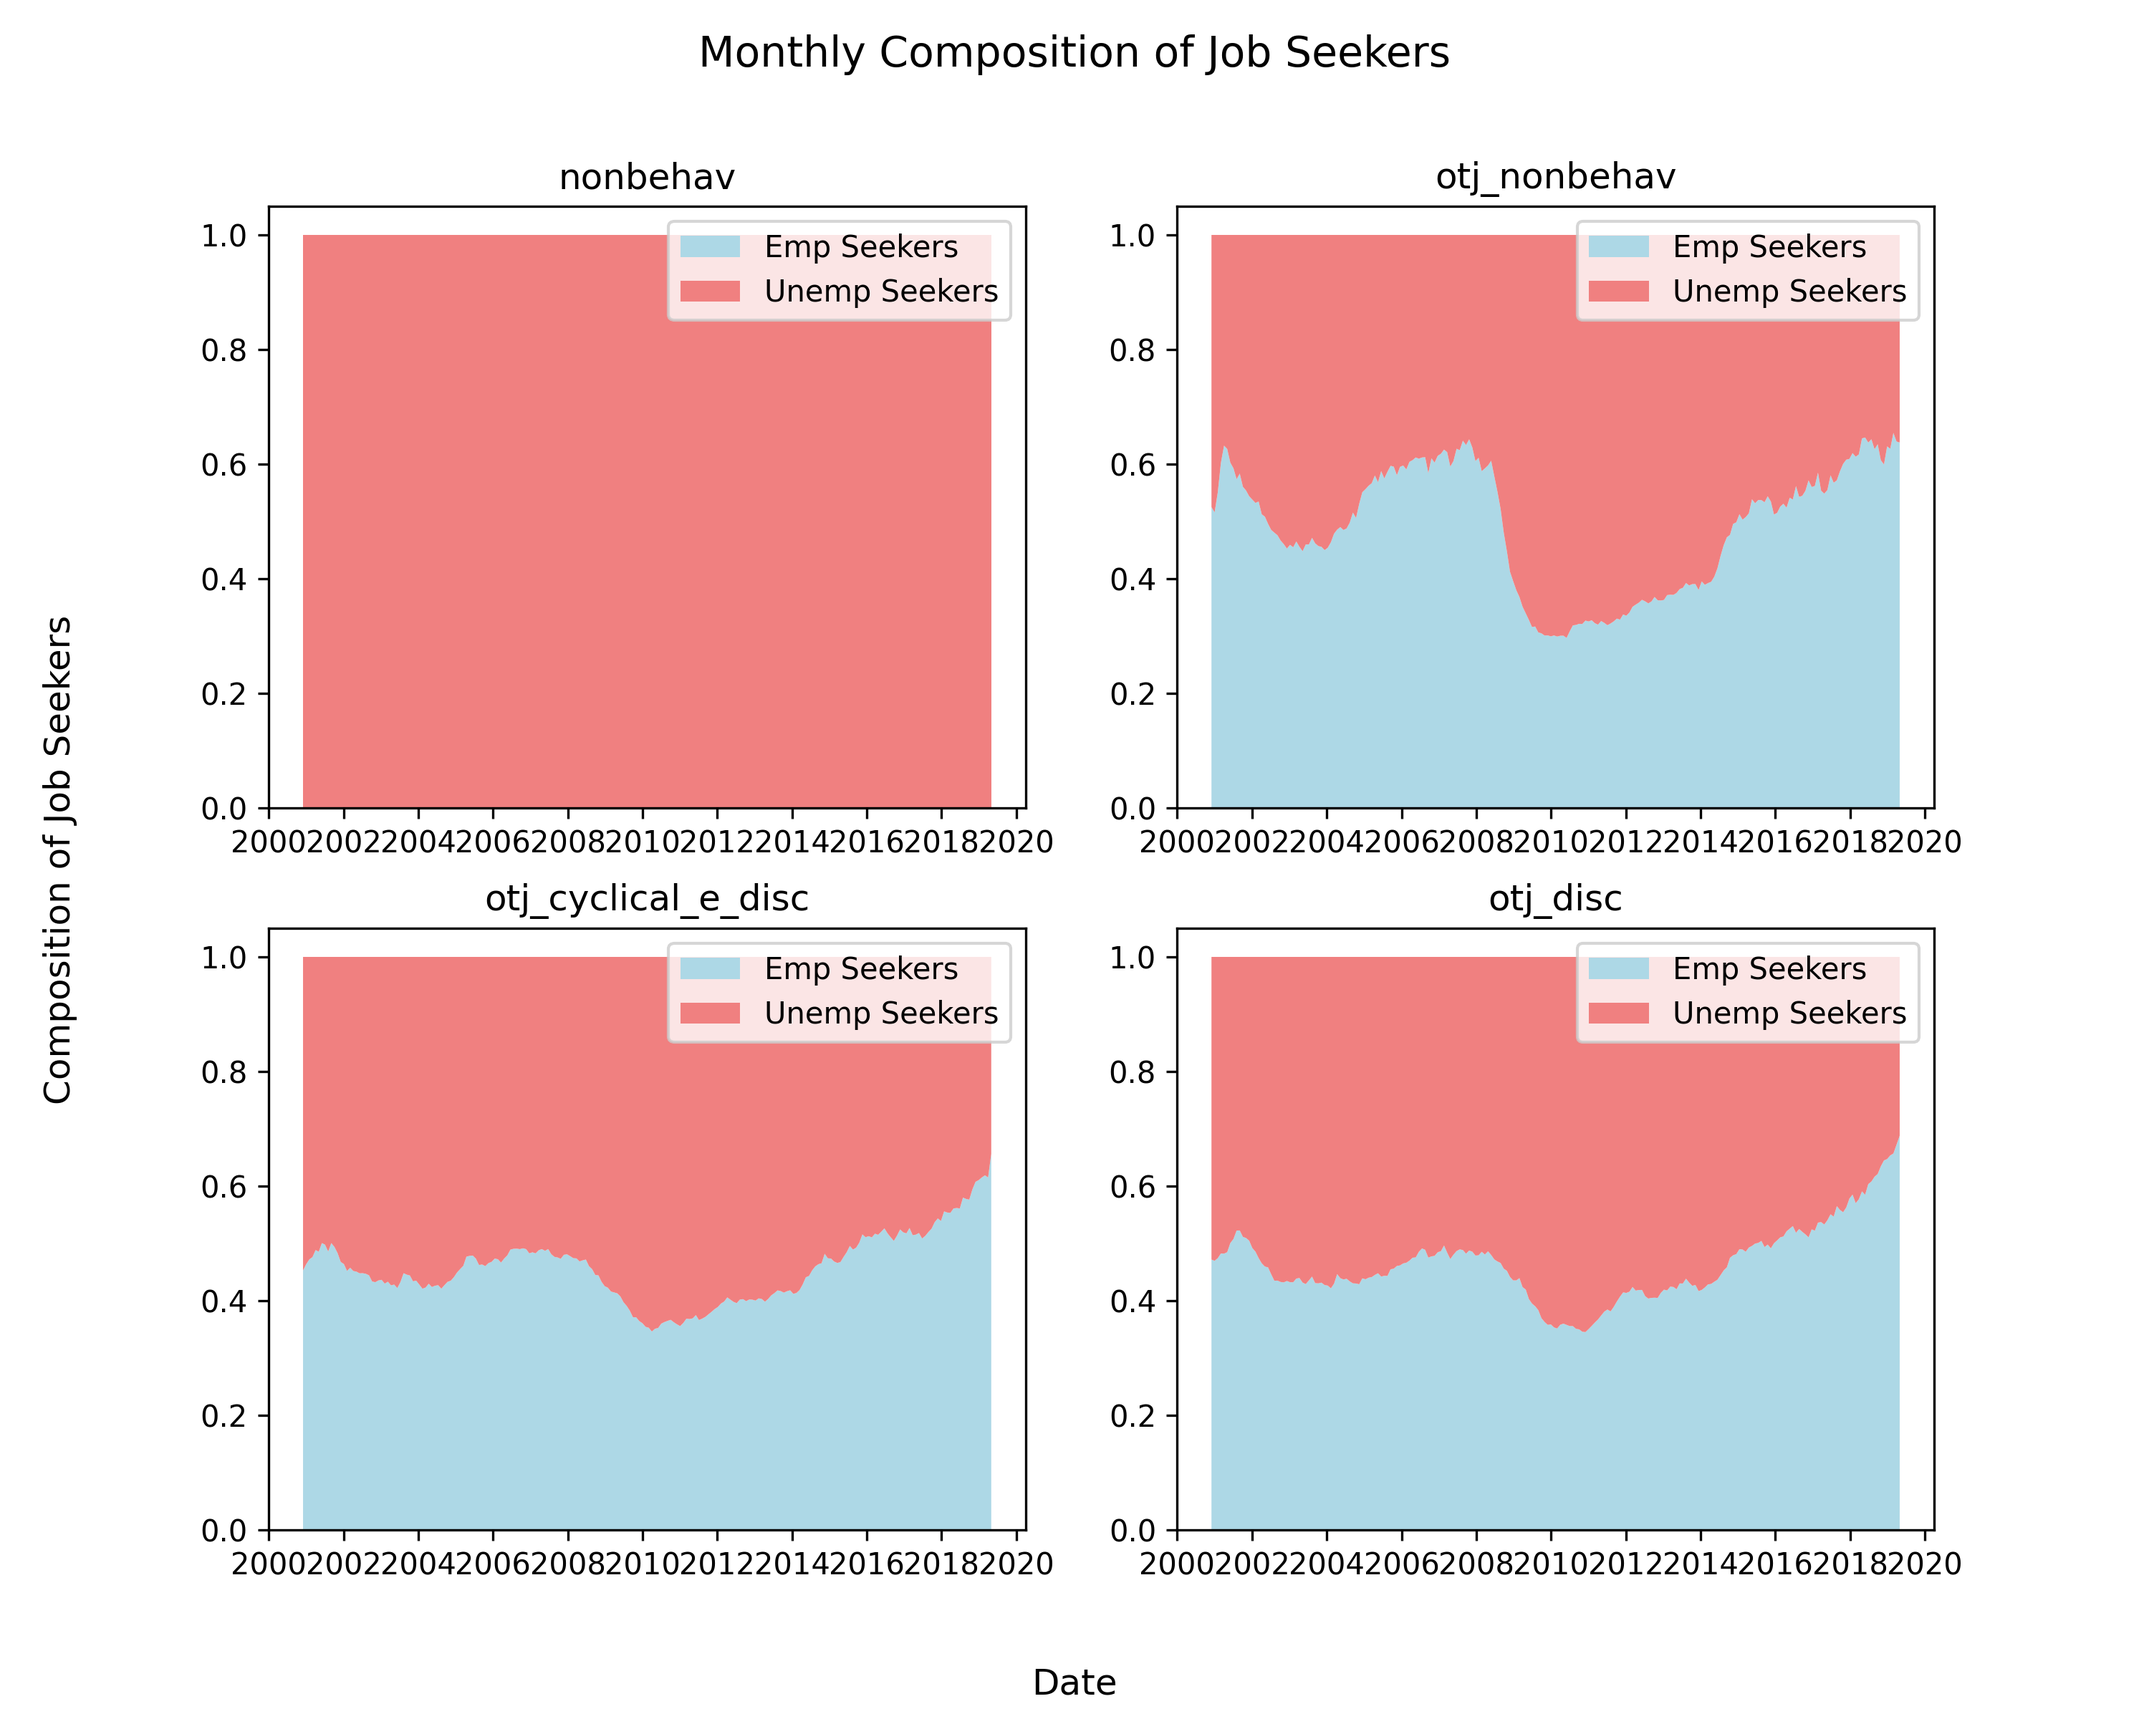
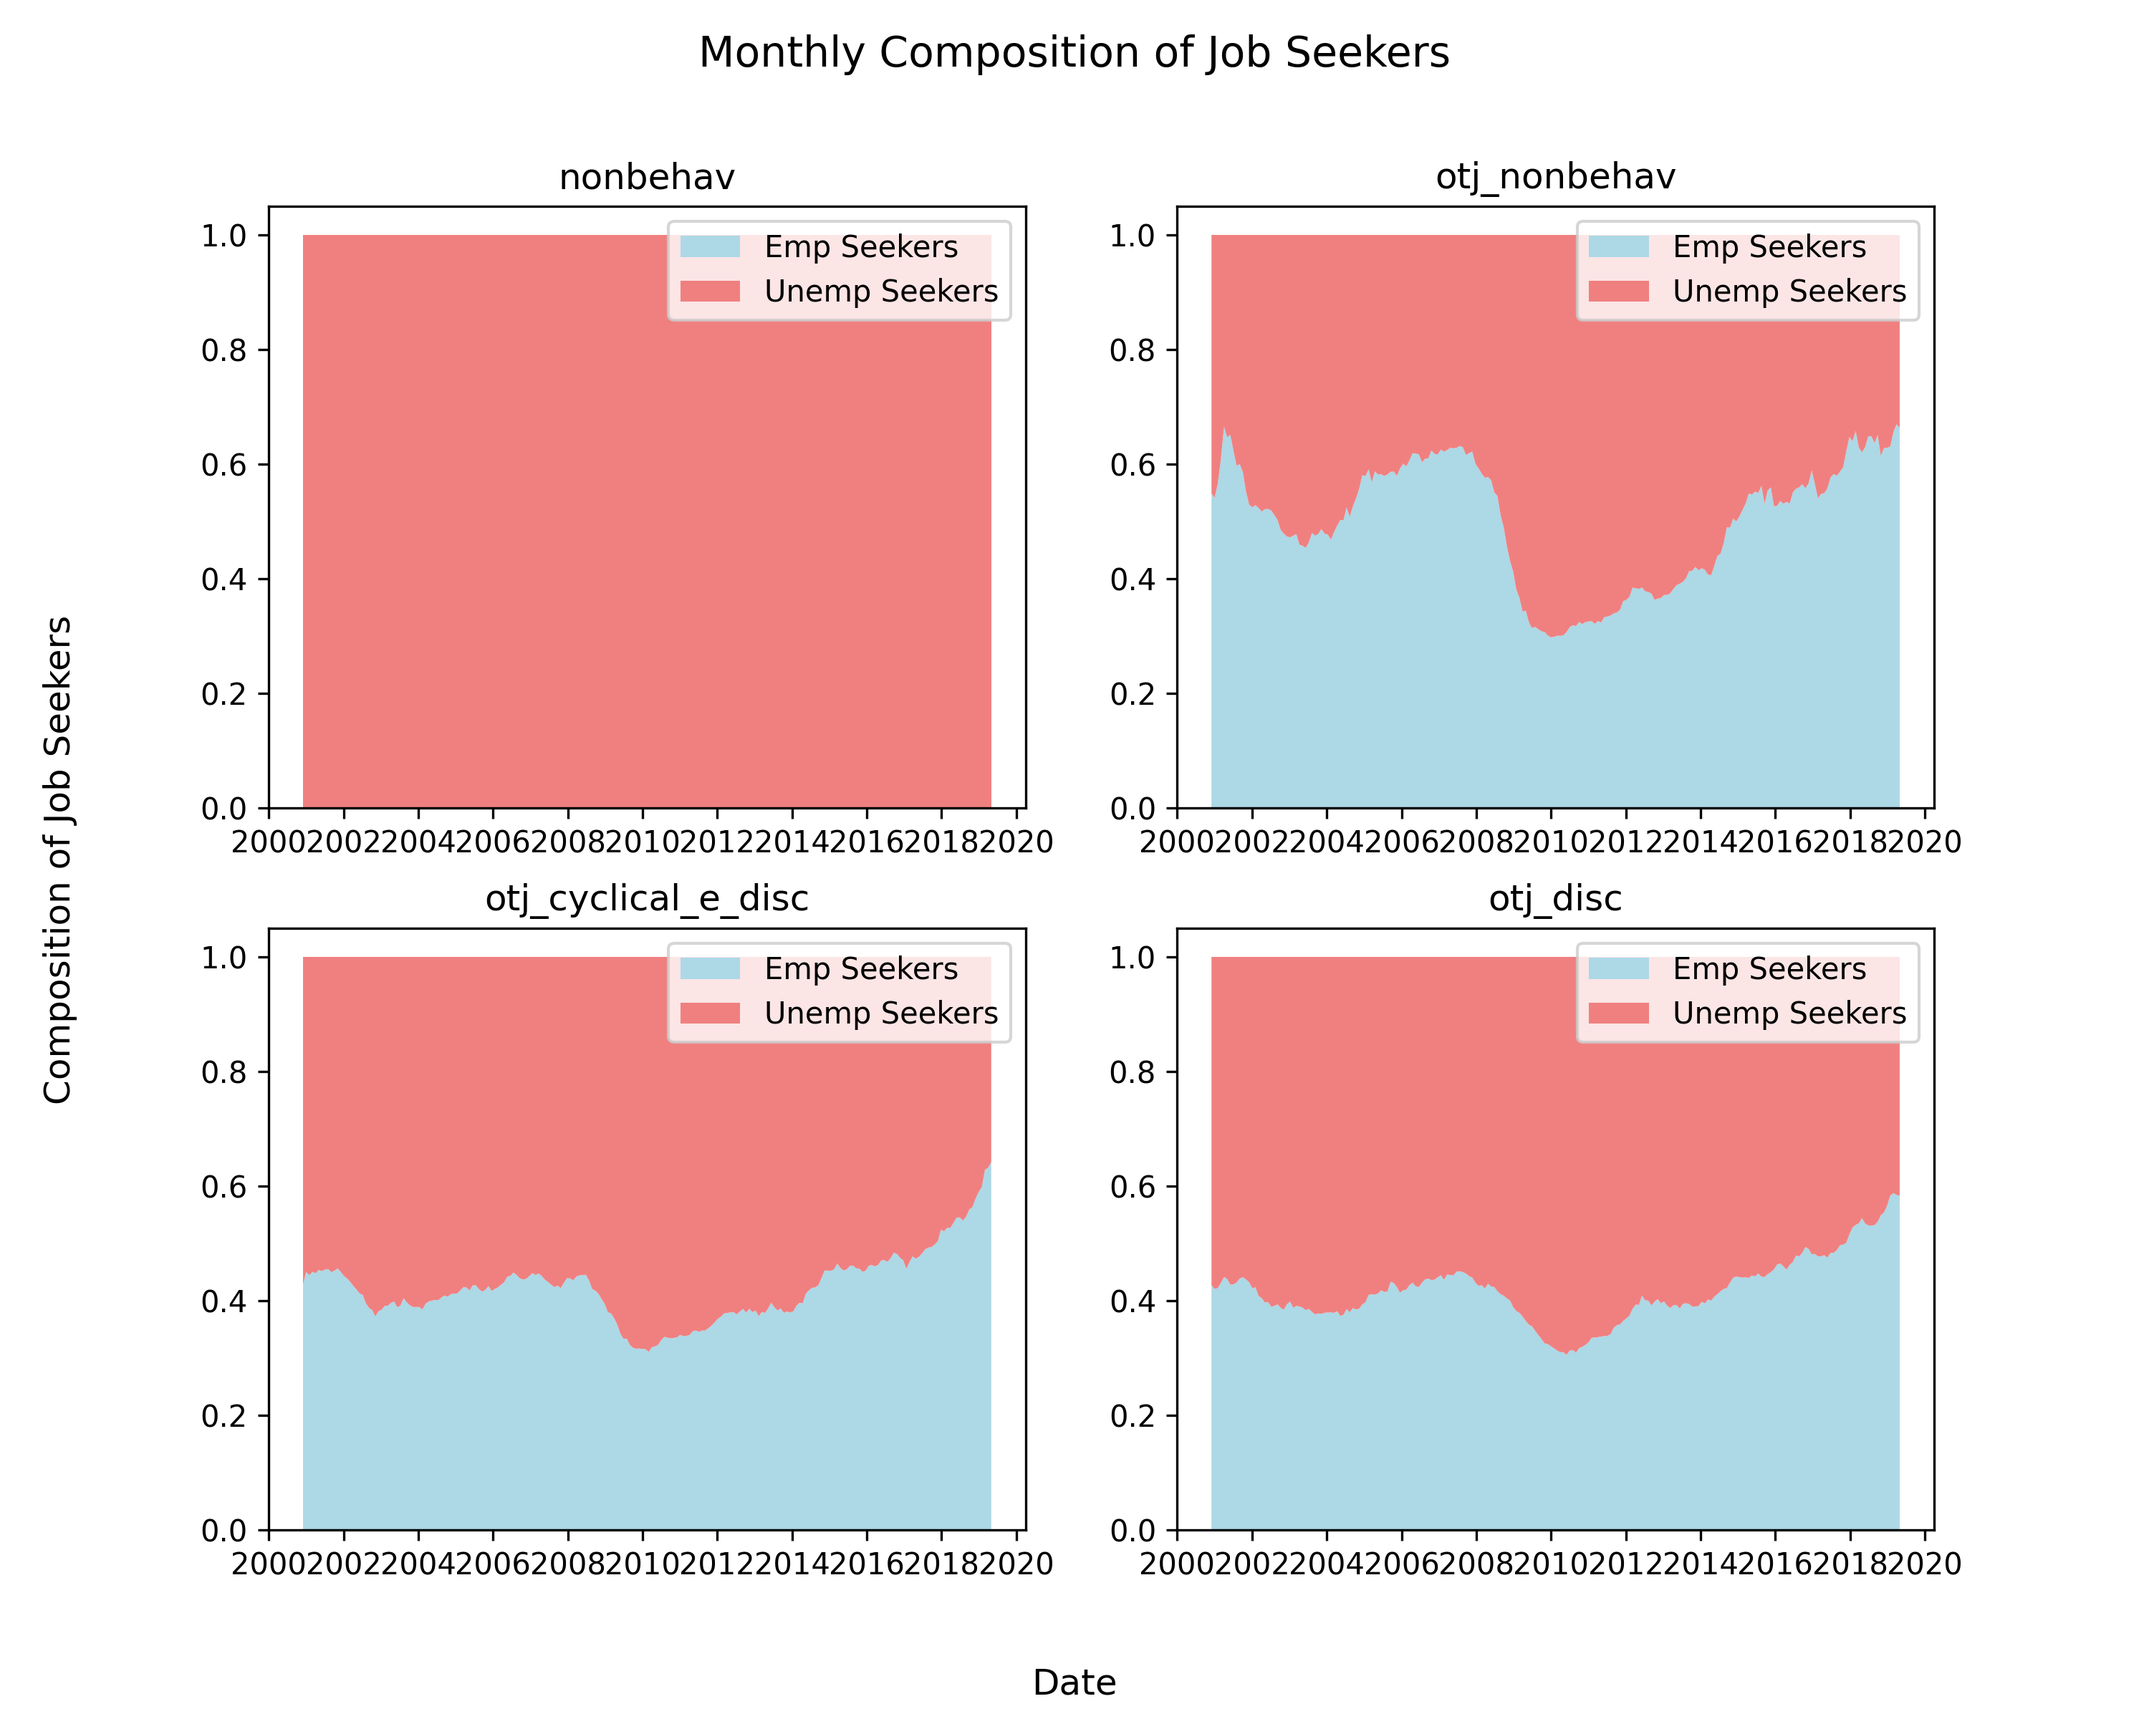
updated plots with distribution of search effort correctly implemented from data

diff --git a/calibration_remote/abm_funs.py b/calibration_remote/abm_funs.py
@@ -4,6 +4,7 @@ import pandas as pd
 import random as random
 from copy import deepcopy 
 import math as math
+from collections import defaultdict
 import cProfile, pstats, io
 rng = np.random.default_rng()
 
@@ -29,7 +30,75 @@ def util(w_current, w_offered, skill_sim):
 #     #     apps = round(a_stable/((t_unemp)**2 + 1)) + 1
 #     return apps
 
-def search_effort(t_unemp, bus_cy, disc, alpha):
+
+#### Dynamic Search Effort ######
+# Load the data
+
+app_effort = pd.read_csv("~/Documents/Documents - Nuff-Malham/GitHub/transition_abm/data/behav_params/CPS_BLS_Supplement_18_22/app_probs_long.csv")
+
+# Helper function: Sample an integer from the bin's internal distribution
+def sample_within_bin(bin_label, expectation=False):
+    if bin_label == "0":
+        return 1
+    elif bin_label == "1 to 10":
+        return 5.5 if expectation else random.randint(1, 10)
+    elif bin_label == "11 to 20":
+        return 15.5 if expectation else random.randint(11, 20)
+    elif bin_label == "21 to 80":
+        return 50.5 if expectation else random.randint(21, 80)
+    elif bin_label == "81 or more":
+        return 90.5 if expectation else random.randint(81, 100)
+    else:
+        raise ValueError(f"Unknown bin label: {bin_label}")
+
+# Main function: given duration and bin probabilities, return application count
+def applications_sent(duration_months,
+                             duration_to_prob_dict,
+                             expectation=False):
+    """
+    If expectation=True return the expected value (float);
+    otherwise return a random draw (int).
+    """
+    if duration_months not in duration_to_prob_dict:
+        #raise ValueError(f"No probability distribution for duration {duration_months}")
+        return 1
+
+    # dict: bin_label -> probability
+    bin_probs = duration_to_prob_dict[duration_months]
+
+    if expectation:                       # new deterministic branch
+        exp_val = sum(
+            p * sample_within_bin(b, expectation=True)
+            for b, p in bin_probs.items()
+        )
+        return exp_val                  # float (can be fractional)
+
+    # ------- stochastic branch (unchanged) -------
+    bin_labels     = list(bin_probs.keys())
+    probabilities  = list(bin_probs.values())
+    chosen_bin     = random.choices(bin_labels, weights=probabilities, k=1)[0]
+    return sample_within_bin(chosen_bin, expectation=False)
+
+# Convert duration to int (you can round or floor as needed)
+app_effort["PRUNEDUR_MO"] = app_effort["PRUNEDUR_MO"].round().astype(int)
+
+# Create mapping: duration -> {bin_label: probability}
+duration_to_prob_dict = defaultdict(dict)
+
+for _, row in app_effort.iterrows():
+    duration = row["PRUNEDUR_MO"]
+    category = row["Category"]
+    prob = row["Probability"]
+    duration_to_prob_dict[duration][category] = prob
+
+# Convert defaultdict to plain dict (optional)
+duration_to_prob_dict = dict(duration_to_prob_dict)
+
+apps = applications_sent(duration_months=1, duration_to_prob_dict=duration_to_prob_dict, expectation = True)
+
+print(f"Applications sent: {apps}")
+
+def search_effort_alpha(t_unemp, bus_cy, disc, alpha):
     apps = 10
     if t_unemp > 1 and disc:
         apps = round(apps * (1 + alpha*(t_unemp-1)))
@@ -75,7 +144,7 @@ class worker:
         wrkr.ue_rel_wage = ue_rel_wage
         wrkr.apps_sent = applicants_sent
     
-    def search_and_apply(wrkr, net, vac_list, disc, bus_cy, alpha):
+    def search_and_apply(wrkr, net, vac_list, disc, bus_cy, alpha, app_effort):
         # A sample of relevant vacancies are found that are in neighboring occupations
         # Will need to add a qualifier in case sample is greater than available relevant vacancies
         # ^^ have added qualifier...bad form to reassign list?
@@ -91,7 +160,7 @@ class worker:
         if disc or bus_cy != 1:
             # Sort found relevant vacancies by utility-function defined above and apply to amount dictated by impatience
             for v in sorted(found_vacs, key = lambda v: util(wrkr.wage, v.wage, net[wrkr.occupation_id].list_of_neigh_weights[v.occupation_id]), 
-                            reverse = True)[slice(wrkr.risk_aversion, wrkr.risk_aversion + search_effort(wrkr.time_unemployed, bus_cy, disc, alpha))]:
+                            reverse = True)[slice(wrkr.risk_aversion, wrkr.risk_aversion + applications_sent(wrkr.time_unemployed, app_effort, expectation = False))]:
                 # Introduce randomness here...?
                 vsent += 1
                 v.applicants.append(wrkr)
